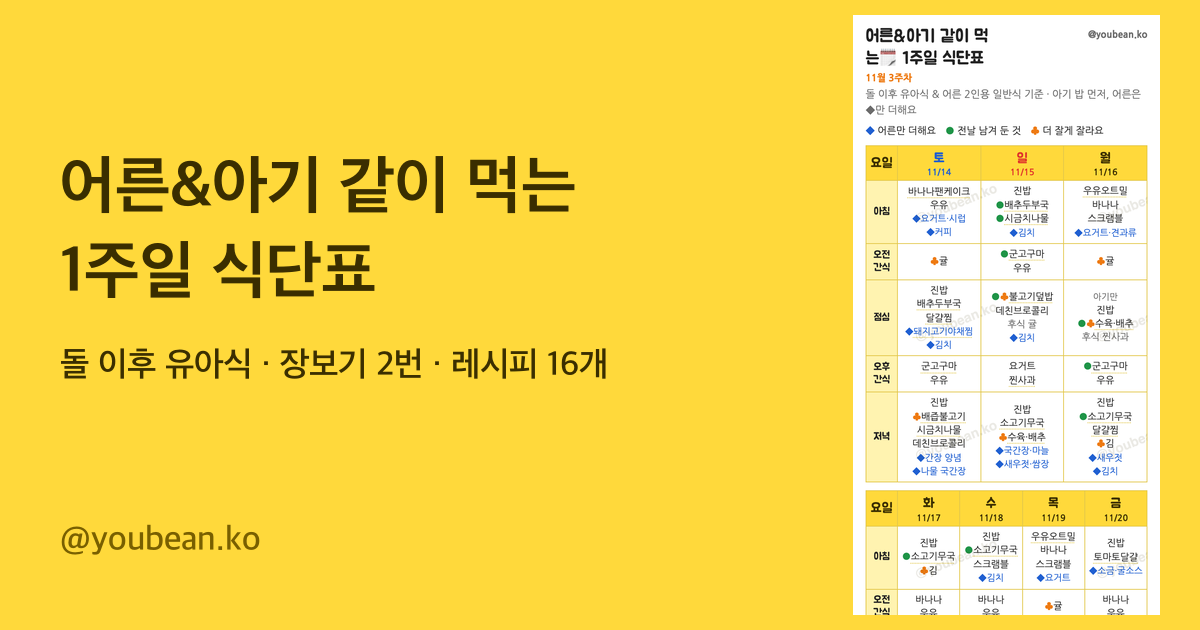
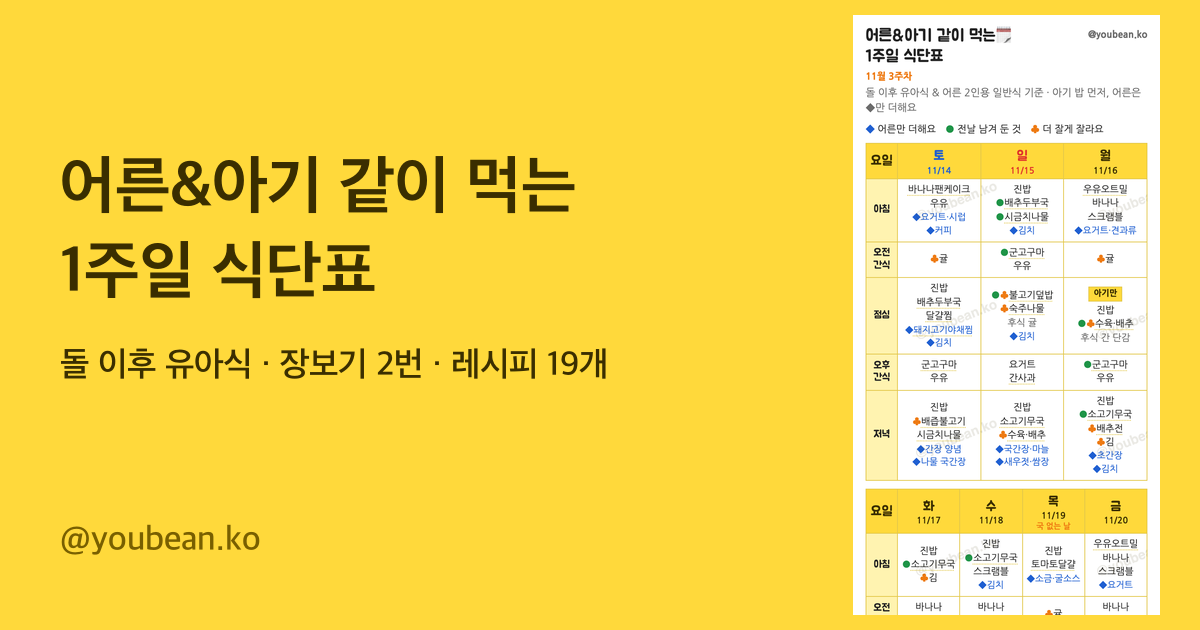
식단 개편: 숙주나물·배추전·토마토파스타 추가, 브로콜리 1회, 단단한 과일은 간 걸로, 출처 안양→영등포구

Changed region(s): [[0.7092, 0.0302, 0.9558, 0.9952], [0.4625, 0.5429, 0.4933, 0.6032], [0.7092, 0.4825, 0.74, 0.5127]]

diff --git a/index.html b/index.html
@@ -4,7 +4,7 @@
 <meta name="description" content="만 12개월 아기와 어른이 같은 재료로 먹는 1주일 유아식 식단표. 장보기 목록, 레시피, 꼭 지킬 것까지 한 장에.">
 <meta property="og:type" content="website">
 <meta property="og:title" content="어른&amp;아기 같이 먹는 1주일 식단표">
-<meta property="og:description" content="돌 이후 유아식, 아기 밥 먼저 만들고 어른은 간만 더해요. 장보기 2번·레시피 16개.">
+<meta property="og:description" content="돌 이후 유아식, 아기 밥 먼저 만들고 어른은 간만 더해요. 장보기 2번·레시피 19개.">
 <meta property="og:url" content="https://ybybgo.github.io/toddler-meal-plan/">
 <meta property="og:image" content="https://ybybgo.github.io/toddler-meal-plan/og.png">
 <meta property="og:image:width" content="1200">
@@ -166,8 +166,8 @@ footer{margin-top:16px;font-size:12px;color:var(--muted);border-top:2px solid va
       <li>간(소금·간장·된장)은 어른 몫에만. 김치는 손톱만큼.</li>
       <li>국은 매일 아니어도 돼요. 줄 땐 건더기 위주로. 목요일은 국 없는 날.</li>
       <li class="care">10원 동전보다 작게. ♣는 더 잘게.</li>
-      <li class="care">통포도, 견과류, 떡, 소시지는 아직 X. 사과·배·단감 같은 단단한 생과일은 아주 얇게 저며 잘게, 씹기 힘들어하면 쪄서.</li>
-      <li class="care">귤은 속껍질 벗겨 잘게. 김은 잘게 부숴 밥에.</li>
+      <li class="care">통포도, 견과류, 떡, 소시지는 아직 X. 사과·배·단감은 강판에 갈아서.</li>
+      <li class="care">귤은 속껍질 벗겨 잘게. 김은 부숴 밥에. 숙주·나물은 1cm로.</li>
       <li>고기·달걀 속까지 75℃ 1분, 생선 85℃ 1분. 데울 땐 한 번 팔팔.</li>
       <li>만들고 2시간 안에 냉장.</li>
       <li>과일 간식은 한 번에 75g쯤.</li>
@@ -189,7 +189,7 @@ footer{margin-top:16px;font-size:12px;color:var(--muted);border-top:2px solid va
       <li>Nemours KidsHealth — <a href="https://kidshealth.org/en/parents/iron.html" target="_blank" rel="noopener">Iron and Your Child</a>(철분 음식 + 비타민C 음식, 우유 473~710ml)</li>
       <li>UH Rainbow Babies &amp; Children's — <a href="https://www.uhhospitals.org/rainbow/health-information/health-and-wellness-library/ages-and-stages/12-months" target="_blank" rel="noopener">12 Months</a>(동전보다 작게)</li>
       <li>식품의약품안전처 — <a href="https://www.korea.kr/news/policyNewsView.do?newsId=148907172" target="_blank" rel="noopener">식중독 예방 요령</a>(75℃ 1분, 2시간) · <a href="https://mfds.go.kr/brd/m_827/view.do?seq=3607" target="_blank" rel="noopener">대량조리음식 주의요령</a>(어패류 85℃, 재가열 75℃)</li>
-      <li>안양시 어린이·사회복지급식관리지원센터 <a href="https://info.childcare.go.kr/info_html5/pnis/search/PnisFileDownload.jsp?flag=DNLL&amp;STCODE=41173000349&amp;wkyymm=202602" target="_blank" rel="noopener">만 1-2세 식단표(2026년 2월)</a> — 한 끼 = 밥·단백질·채소 구성</li>
+      <li>영등포구 어린이·사회복지급식관리지원센터 「2026년 11월 식단(만1-2세)」(발행 2026-10-16, 대림1동어린이집 공시본) — 점심 밥·국·주찬·부찬·김치, '국 없는 날', 1~2세에도 크림스파게티·부추무침·숙주맑은국. <a href="https://info.childcare.go.kr/info/pnis/search/PnisFileDownload.jsp?flag=DNLL&amp;STCODE=11560000020&amp;wkyymm=202611" target="_blank" rel="noopener">보육포털 공시 파일</a></li>
       <li>강남구 어린이·사회복지급식관리지원센터 「2026년 11월 식단표(일반형 1-2세)」(발행 2026-10-15) — 점심 밥·국·주찬·부찬·김치, 월 2회 '국 없는 날'(나트륨 저감), 신선과일 1회 75g, 1~2세 간식에 생과일. <a href="https://dietary4u.mfds.go.kr/gangnam/" target="_blank" rel="noopener">센터 누리집</a> 월간식단 게시판</li>
       <li>농촌진흥청 농사로 '이달의 식재료' 11월(배추·무·단호박·돼지고기) — <a href="https://braindetox.kr/posts/november_seasonal_food_korea.html" target="_blank" rel="noopener">정리본</a>으로 확인(원문 점검 중)</li>
     </ol>
@@ -214,7 +214,7 @@ const R={
  r5:{t:"연어단호박구이",tm:"20분",i:"연어 300g, 단호박 1/4통, 브로콜리 1/2송이, 올리브유",
   b:["단호박 깍둑 → 전자레인지 3분","에어프라이어 180℃ 12분","가시 확인하며 부수기 → 아기 2회분(1회분은 다음 날 점심)"],p:"굽기 전 소금·후추"},
  r6:{t:"소고기단호박스튜",tm:"35분",i:"소고기 카레용 300g, 단호박 1/4통, 감자 1개, 양파 1개, 브로콜리, 물 700ml",
-  b:["재료 1cm보다 작게 → 양파 볶고 고기·단호박·감자·물, 20분","브로콜리 넣고 5분 → 아기 3회분(목 저녁, 금 점심·저녁)"],p:"카레 2조각 풀고 5분"},
+  b:["재료 1cm보다 작게 → 양파 볶고 고기·단호박·감자·물, 20분","브로콜리 넣고 5분 → 아기 2회분(목 저녁, 금 점심)"],p:"카레 2조각 풀고 5분"},
  r7:{t:"배추두부국(채수)",tm:"10분",i:"채수 900ml(아래 채수 레시피), 알배추 3장, 두부 1/2모",
   b:["채수에 배추(잘게) 5분 → 두부 3분","아기 그릇에 건더기 위주(1회분은 다음 날 아침)"],p:"된장 1.5큰술, 대파 → 2분"},
  r8:{t:"배즙불고기",tm:"재우기 + 10분",i:"불고기용 소고기 500g, 배 1/4개(갈아서), 양파 1/2개, 표고 2개",
@@ -229,12 +229,18 @@ const R={
   b:["에어프라이어 180℃ 30분","껍질 벗겨 막대로 → 냉장 3일(토~월 간식)"],p:"그대로"},
  r13:{t:"토마토달걀볶음",tm:"10분",i:"토마토 2개, 달걀 4개",
   b:["토마토 칼집 → 전자레인지 30초 → 껍질 벗겨 깍둑","달걀 반숙 스크램블 → 토마토 볶다 합치기 → 1/3 아기 몫"],p:"소금, 굴소스, 대파"},
- r14:{t:"사과·배·단감",tm:"3분",i:"사과·배·단감 중 하나, 한 번에 75g쯤",
-  b:["껍질·씨 빼고 아주 얇게 저민 뒤 10원 동전보다 작게","씹기 힘들어하면 전자레인지 1분 30초(뚜껑) 쪄서 식히기"],p:"어른은 그대로"},
+ r14:{t:"간 사과·배·단감",tm:"2분",i:"사과·배·단감 중 하나, 한 번에 75g쯤",
+  b:["껍질·씨 빼고 강판에 갈기","즙째 숟가락으로, 먹기 직전에 갈기"],p:"어른은 그대로"},
  r15:{t:"채수",tm:"25분",i:"알배추 1/4통, 양파 1개, 당근 1/2개, 숙주 한 줌, 부추 한 줌, 물 1.5L",
   b:["알배추·양파·당근 넣고 20분","숙주·부추 넣고 5분만 더(오래 끓이면 물러지고 쓴맛이 나요)","채수만 걸러 국용·소분 → 건더기 채소는 남겨 두기"],p:"건더기 채소로 돼지고기야채찜"},
  r16:{t:"돼지고기야채찜",tm:"15분 · 어른용",i:"채수 내고 남은 채소, 얇게 썬 돼지고기 300g, 물, 치킨스톡 1스푼, 참치액젓 1/2스푼, 유자와사비 1/2티스푼, 올리브유·후추",
-  b:["돼지고기는 올리브유·후추에 미리 재워 두기","남은 채소에 물을 자작하게 붓고 치킨스톡·참치액젓·유자와사비","끓으면 돼지고기 넣고 팔팔, 속까지 익히기"],p:"어른 전용(간·유자와사비가 들어가요)"}
+  b:["돼지고기는 올리브유·후추에 미리 재워 두기","남은 채소에 물을 자작하게 붓고 치킨스톡·참치액젓·유자와사비","끓으면 돼지고기 넣고 팔팔, 속까지 익히기"],p:"어른 전용(간·유자와사비가 들어가요)"},
+ r17:{t:"숙주나물",tm:"5분",i:"숙주 1봉(200g), 참기름, 깨",
+  b:["끓는 물 2분 데쳐 찬물에 → 물기 꼭 짜기","1/3은 1cm로 잘게 + 참기름 한 방울 → 아기 몫(냉장 3일)"],p:"소금, 다진 마늘, 참기름, 깨"},
+ r18:{t:"배추전",tm:"15분",i:"알배추 잎 6장, 밀가루 1/2컵 + 물 1/2컵, 식용유",
+  b:["배추 줄기를 칼등으로 두드려 납작하게","반죽 얇게 묻혀 중약불 앞뒤 2~3분","아기 몫 2장은 잘게 썰기"],p:"초간장(간장 1 : 식초 1)"},
+ r19:{t:"토마토소고기파스타",tm:"20분",i:"짧은 파스타(푸실리·마카로니) 어른 160g + 아기 30g, 소고기 다짐육 150g, 토마토 2개, 양파 1/2개, 올리브유",
+  b:["파스타는 봉지 시간보다 2분 더 삶기","올리브유에 양파·다짐육 볶고 토마토(껍질 벗겨 깍둑) 넣어 10분","아기 몫: 파스타 잘게 잘라 소스에 비비기"],p:"남은 소스에 소금·후추, 그릇에 파마산"}
 };
 
 /* 식단 2026-11-14~20. 접두어 + 어른만(◆) / * 전날 남겨 둔 것(●) / ~ 더 잘게(♣) / ! 안내 / "후식 " */
@@ -245,56 +251,56 @@ const W=[
   [["~귤"]],
   [["진밥"],["배추두부국","r7"],["달걀찜","r2"],["+돼지고기야채찜","r16"],["+김치"]],
   [["군고구마","r12"],["우유"]],
-  [["진밥"],["~배즙불고기","r8"],["시금치나물","r10"],["데친브로콜리"],["+간장 양념"],["+나물 국간장"]]]},
+  [["진밥"],["~배즙불고기","r8"],["시금치나물","r10"],["+간장 양념"],["+나물 국간장"]]]},
  {k:"일",d:"11/15",iso:"2026-11-15",c:"sun",m:[
   [["진밥"],["*배추두부국","r7"],["*시금치나물","r10"],["+김치"]],
   [["*군고구마","r12"],["우유"]],
-  [["*~불고기덮밥","r8"],["데친브로콜리"],["후식 귤"],["+김치"]],
-  [["요거트"],["사과","r14"]],
+  [["*~불고기덮밥","r8"],["~숙주나물","r17"],["후식 귤"],["+김치"]],
+  [["요거트"],["간사과","r14"]],
   [["진밥"],["소고기무국","r1"],["~수육·배추","r9"],["+국간장·마늘"],["+새우젓·쌈장"]]]},
  {k:"월",d:"11/16",iso:"2026-11-16",m:[
   [["우유오트밀","r3"],["바나나"],["스크램블"],["+요거트·견과류"]],
   [["~귤"]],
-  [["!아기만"],["진밥"],["*~수육·배추","r9"],["후식 단감"]],
+  [["!아기만"],["진밥"],["*~수육·배추","r9"],["후식 간 단감"]],
   [["*군고구마","r12"],["우유"]],
-  [["진밥"],["*소고기무국","r1"],["달걀찜","r2"],["~김"],["+새우젓"],["+김치"]]]},
+  [["진밥"],["*소고기무국","r1"],["~배추전","r18"],["~김"],["+초간장"],["+김치"]]]},
  {k:"화",d:"11/17",iso:"2026-11-17",m:[
   [["진밥"],["*소고기무국","r1"],["~김"]],
   [["바나나"],["우유"]],
   [["!아기만"],["진밥"],["달걀찜","r2"],["데친브로콜리"]],
-  [["요거트"],["배","r14"]],
+  [["요거트"],["간배","r14"]],
   [["채소볶음밥","r4"],["*소고기무국","r1"],["후식 귤"],["+굴소스·후추"]]]},
  {k:"수",d:"11/18",iso:"2026-11-18",m:[
   [["진밥"],["*소고기무국","r1"],["스크램블"],["+김치"]],
   [["바나나"],["우유"]],
-  [["!아기만"],["*채소볶음밥","r4"],["후식 사과"]],
+  [["!아기만"],["*채소볶음밥","r4"],["후식 간 사과"]],
   [["요거트"],["~귤"]],
   [["진밥"],["연어구이","r5"],["+소금·후추"],["+김치"]]]},
  {k:"목",d:"11/19",iso:"2026-11-19",ns:1,m:[
-  [["우유오트밀","r3"],["바나나"],["스크램블"],["+요거트"]],
+  [["진밥"],["토마토달걀","r13"],["+소금·굴소스"]],
   [["~귤"]],
   [["!아기만"],["진밥"],["*~연어구이","r5"]],
-  [["요거트"],["배","r14"]],
+  [["요거트"],["간단감","r14"]],
   [["진밥"],["소고기스튜","r6"],["후식 귤"],["+카레"],["+김치"]]]},
  {k:"금",d:"11/20",iso:"2026-11-20",m:[
-  [["진밥"],["토마토달걀","r13"],["+소금·굴소스"]],
+  [["우유오트밀","r3"],["바나나"],["스크램블"],["+요거트"]],
   [["바나나"],["우유"]],
-  [["!아기만"],["진밥"],["*소고기스튜","r6"],["후식 사과"]],
+  [["!아기만"],["진밥"],["*소고기스튜","r6"],["후식 간 사과"]],
   [["요거트"],["~귤"]],
-  [["진밥"],["*소고기스튜","r6"],["데친브로콜리"],["+카레"],["+김치"]]]}
+  [["토마토파스타","r19"],["+소금·후추·파마산"]]]}
 ];
 
 /* 장보기 2번: 토(토~화 메뉴), 화 퇴근길(수~금 메뉴) */
 const TRIPS=[
  {id:"a",day:"2026-11-14",t:"토요일 장보기",sub:"11/14 · 토~화 메뉴",g:[
   ["고기·달걀",["소고기 불고기용 500g","소고기 국거리 200g","돼지 앞다리 600g","돼지고기 얇게 썬 것 300g","닭안심 150g","달걀 15개","두부 1모"]],
-  ["채소",["알배추 1통","무 1/2개","시금치 1단","브로콜리 1송이","양파 4개","당근 1/2개","숙주 한 줌","부추 한 줌","표고 2개","냉동 다진 채소"]],
+  ["채소",["알배추 1통","무 1/2개","시금치 1단","브로콜리 1송이","양파 4개","당근 1/2개","숙주 1봉","부추 한 줌","표고 2개","냉동 다진 채소"]],
   ["과일·간식",["바나나 1송이","귤 1봉","사과 3개","배 2개","단감 2개","고구마 4개","무가당 요거트","우유"]],
-  ["기타",["쌀","오트밀","무조미 김","어른용: 치킨스톡·참치액젓·유자와사비"]]]},
+  ["기타",["쌀","오트밀","무조미 김","밀가루","어른용: 치킨스톡·참치액젓·유자와사비"]]]},
  {id:"b",day:"2026-11-17",t:"화요일 퇴근길",sub:"11/17 · 수~금 메뉴",g:[
-  ["고기·생선",["연어 300g","소고기 카레용 300g"]],
-  ["채소",["단호박 1/2통","감자 1개","토마토 2개"]],
-  ["보충",["우유","요거트","바나나"]]]}
+  ["고기·생선",["연어 300g","소고기 카레용 300g","소고기 다짐육 150g"]],
+  ["채소",["단호박 1/2통","감자 1개","토마토 4개"]],
+  ["보충",["짧은 파스타","우유","요거트","바나나"]]]}
 ];
 
 const el=(t,c,h)=>{const e=document.createElement(t);if(c)e.className=c;if(h!=null)e.innerHTML=h;return e};
